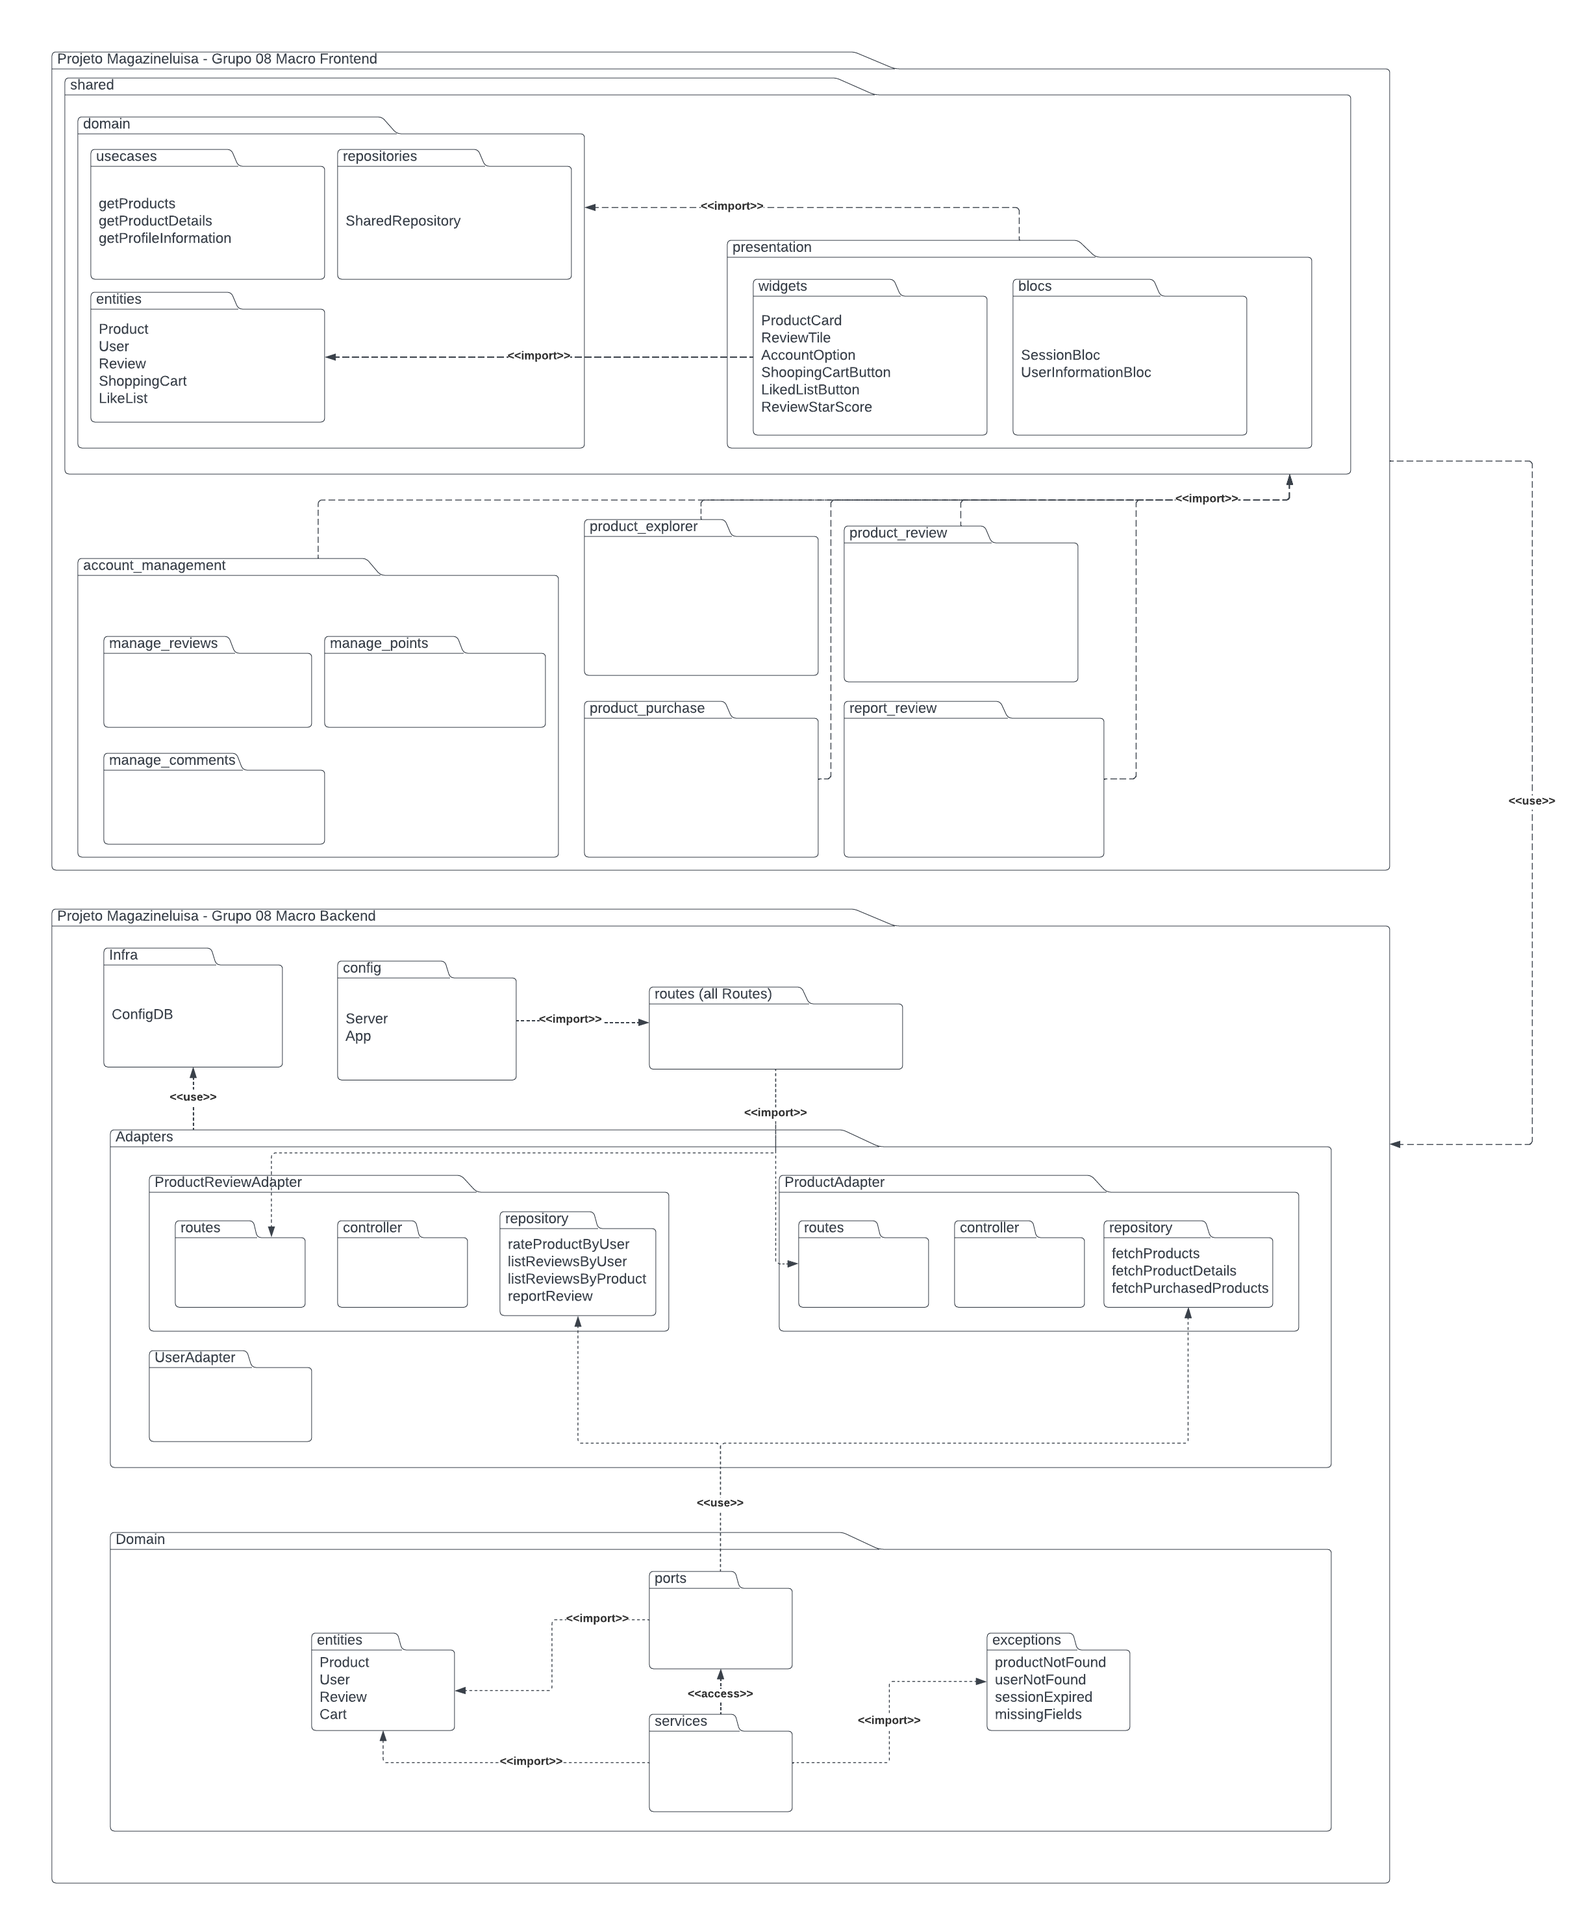
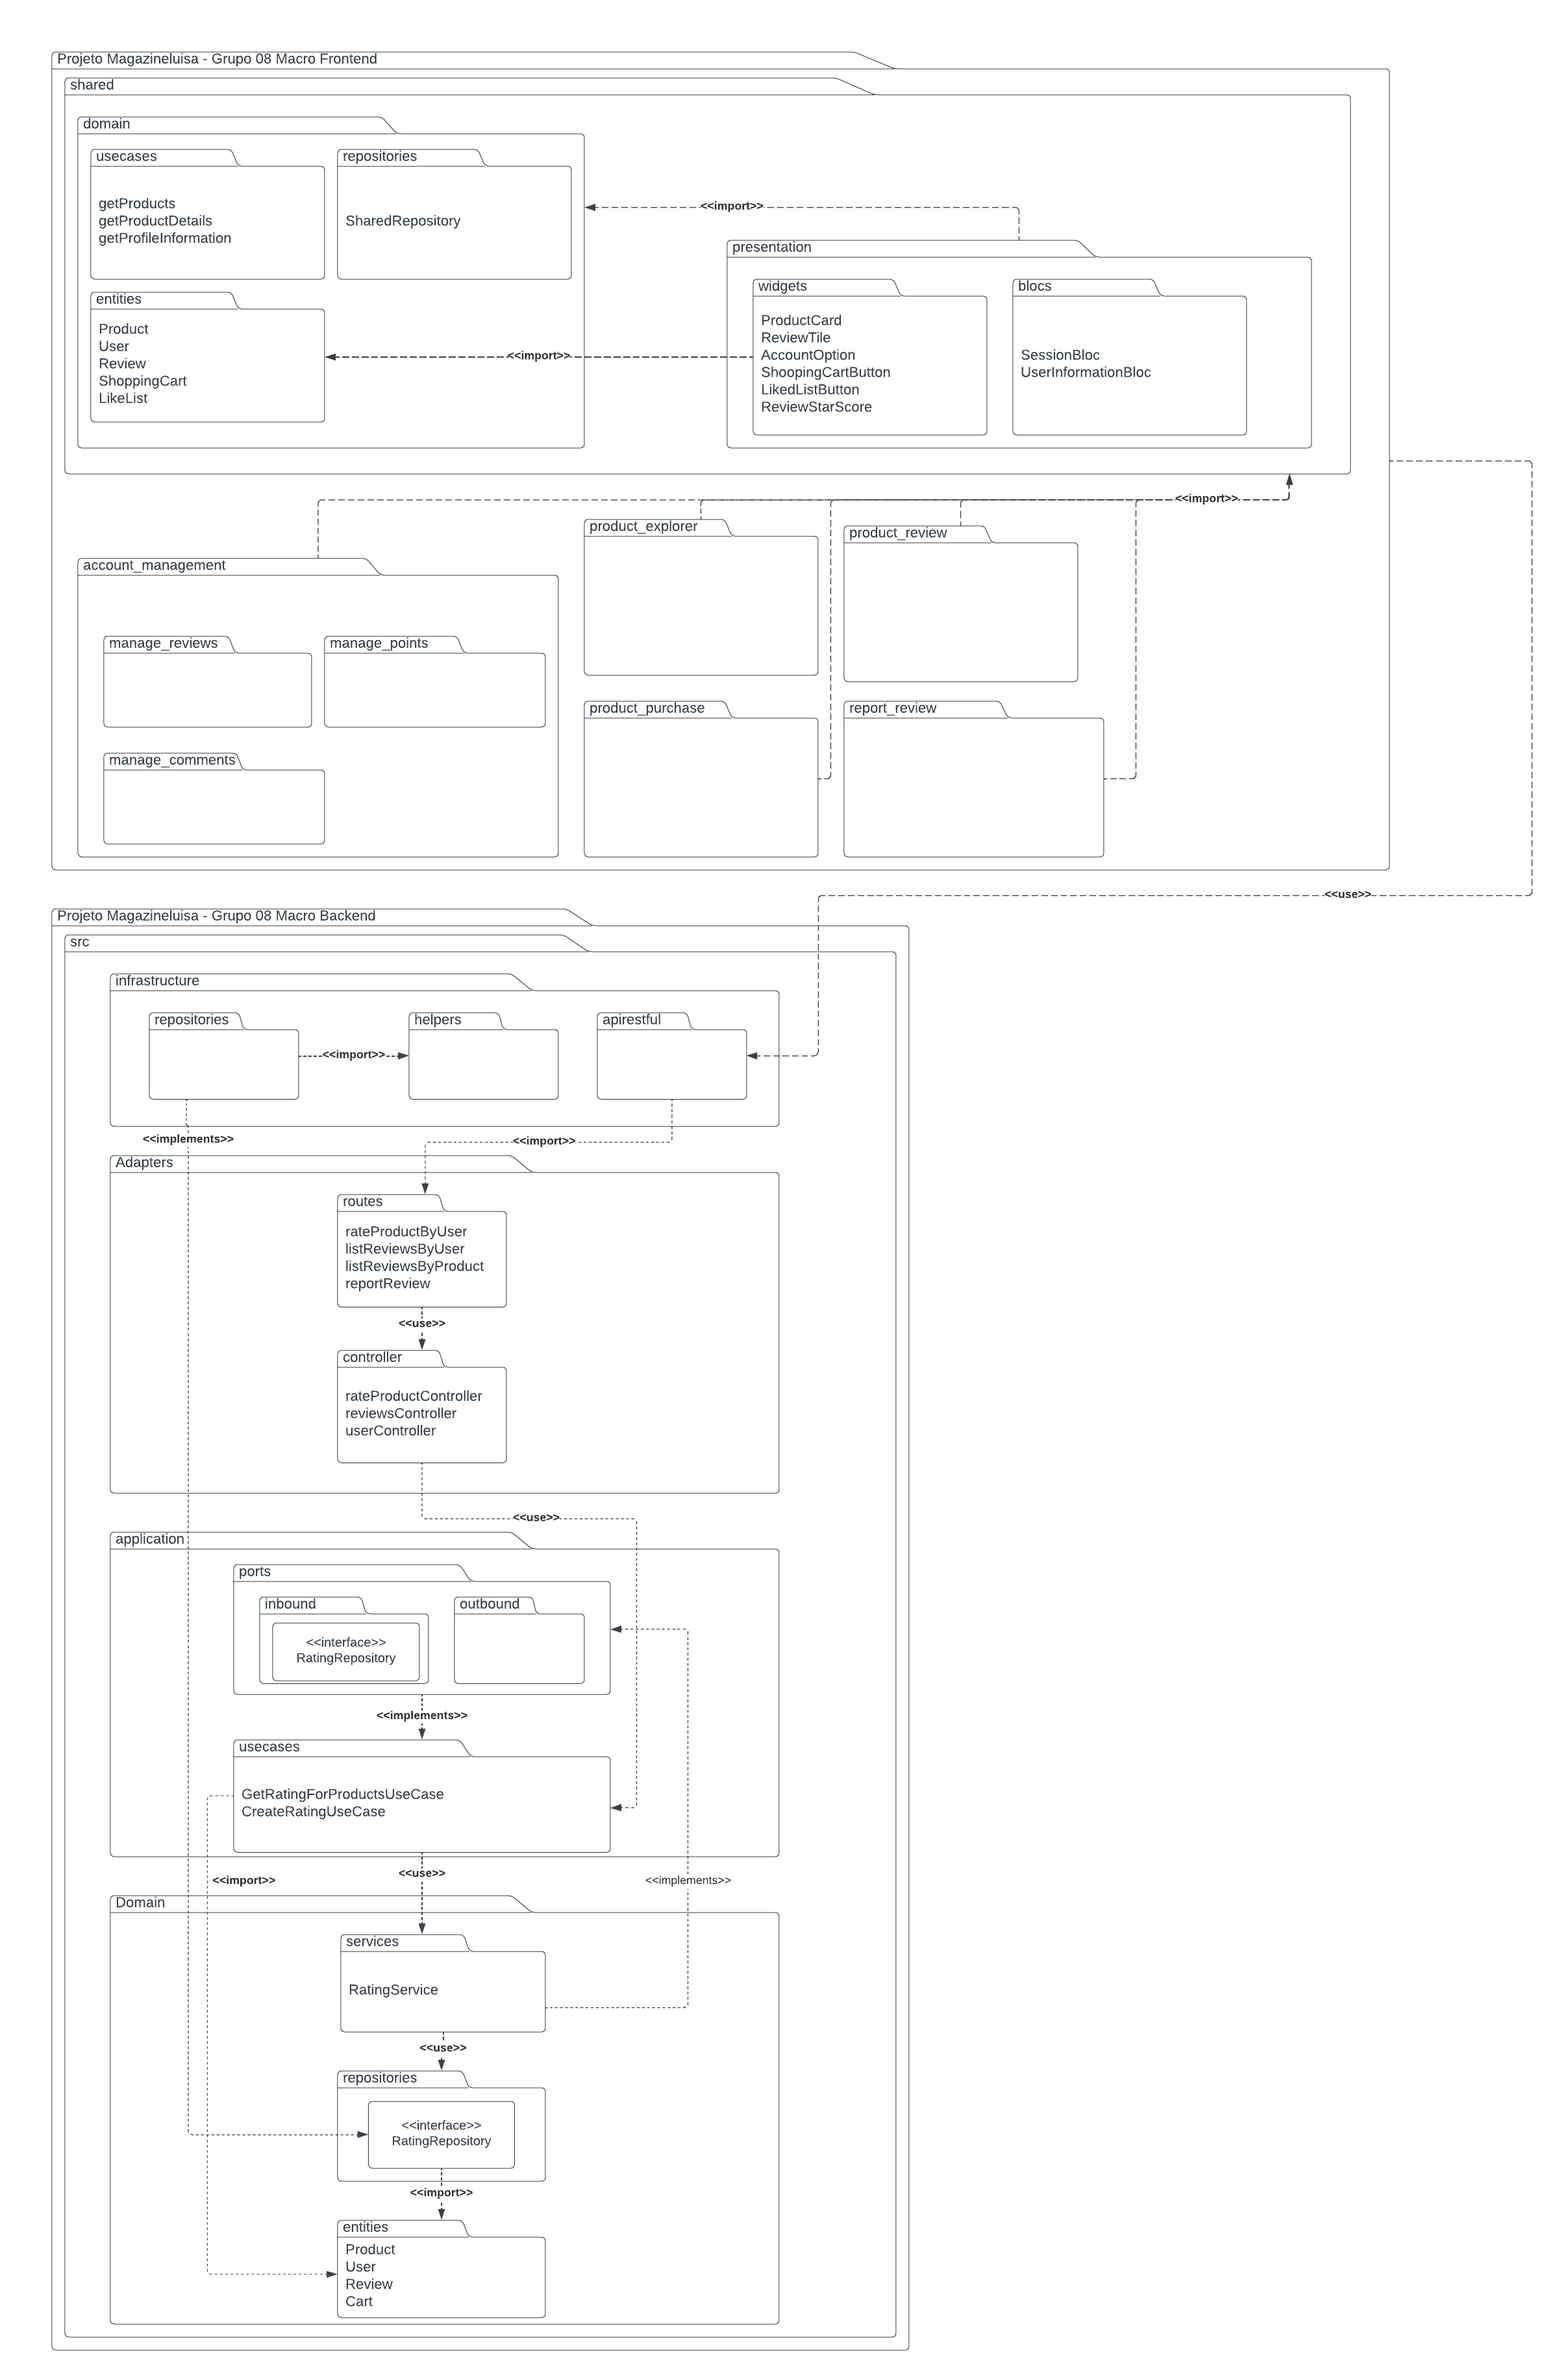
feat: add backend part of macro package diagram

diff --git a/docs/Modelagem/2.1.1.1.DiagramaPacotes.md b/docs/Modelagem/2.1.1.1.DiagramaPacotes.md
@@ -55,6 +55,18 @@ A camada de Aplicação é responsável por orquestrar os casos de uso da aplica
 
 A camada de Domínio é o núcleo da aplicação e concentra-se na modelagem e na implementação da lógica de negócios. É onde as regras de negócios são definidas e onde os conceitos centrais do domínio da aplicação são representados.
 
+## 3.3. Diagrama de Pacote - Visão Macro(v1.0)
+
+![Diagrama de Pacote - Visão Macro(v1.0)](../Assets/Modelagem/Estatica/diagrama_pacote_macro_v1.png)
+
+Esse diagrama apresenta como as visões micro se comportariam no escopo do grupo 8. Assim temos uma visão da implementação do fluxo de avaliação de produtos.<br>
+
+Na parte do frontend, tem-se a criação da pasta shared com entidades, casos de uso e repositórios comuns a todo o projeto, apesar de apenas isso ser mostrada demais camadas e artefatos das pastas existem, porém o grupo optou por não se aprofundar nessa implementação no diagrama de pacotes a fim de deixar o diagrama simples e de fácil entendimento.
+
+Além da pasta mencionada, existem 4 pastas relativas a features que possuem relação direta ou indireto com o fluxo de avaliação do produto. As features são: account_management (gerenciamento de conta, que conta com 3 subfeatures), product_explorer (exploração de produto), product_purchase (compra de produto), product_review (avaliação de produto) e report_review (denúncia de avaliação). Cada feature ou subfeature possui sua conexão com o backend do sistema.
+
+Na parte do backend, a ligação com o frontend é feita a partir de uma API RESTful, no qual a ligação com a camada de adaptadores é feita a partir das rotas, que enviam os dados das requisições para as controllers. A partir desse ponto, as controllers direcionam a ação da API para o pacote de casos de uso, no qual irão implementar as interfaces presentes nas portas com as ações necessárias. Com isso, cada caso de uso vai acionar uma service do pacote de domínio, com a responsibilidade de executar a regra de negócio utilizando as interfaces disponíveis nos repositórios, o qual são implementadas na camada de infraestrutura, pois nessa camada é realizada a persistência dos dados.
+
 ## 4. Referências
 
 > UML Package Diagrams Overview. <bold>uml-diagrams.org<bold>. Disponível em: [https://www.uml-diagrams.org/package-diagrams-overview.html](https://www.uml-diagrams.org/package-diagrams-overview.html). Acesso em 27 de Sep de 2023.
@@ -63,10 +75,12 @@ A camada de Domínio é o núcleo da aplicação e concentra-se na modelagem e n
 
 > Idealo Tech Blog. Hexagonal Ports & Adapters Architecture. Medium, 2020. Disponível em: https://medium.com/idealo-tech-blog/hexagonal-ports-adapters-architecture-e3617bcf00a0. Acesso em: 04 de Out de 2023.
 
+> Amazon Web Services (AWS). O que é uma API RESTful?. Disponível em: https://aws.amazon.com/pt/what-is/restful-api/. Acesso em: 04 de Out de 2023.
 ## 5. Histórico de Versão
 
 | Data       | Versão | Modificação                                                                                | Autor                                                                                                         |
 | ---------- | ------ | ------------------------------------------------------------------------------------------ | ------------------------------------------------------------------------------------------------------------- |
 | 29/09/2023 | 0.1    | Adição do diagrama de pacote micro frontend                                               | [Mauricio Machado](https://github.com/MauricioMachadoFF)                                                      |
 | 29/09/2023 | 0.2    | Adição do diagrama de pacote macro, adição de referências, correção de índices no arquivo | [Guilherme Barbosa](https://github.com/guibrbs) <br> [Mauricio Machado](https://github.com/MauricioMachadoFF) |
-| 04/10/2023 | 0.3    | Adição do diagrama de pacote micro backend                 | [Guilherme Barbosa](https://github.com/guibrbs)
+| 03/10/2023 | 0.3    | Adição do diagrama de pacote micro backend                 | [Guilherme Barbosa](https://github.com/guibrbs)
+| 04/10/2023 | 0.4    | Correção no backend do diagrama de pacote macro, adição de referências e adição da explicação do backend no diagrama de pacotes macro         | [Guilherme Barbosa](https://github.com/guibrbs)
